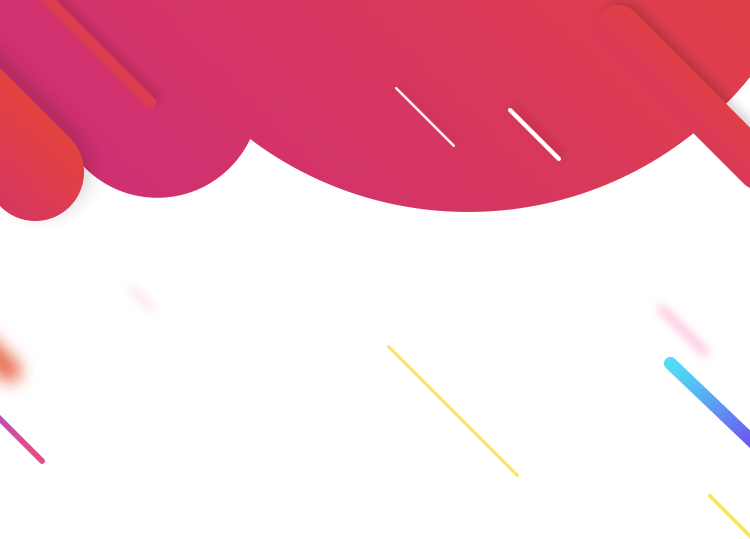
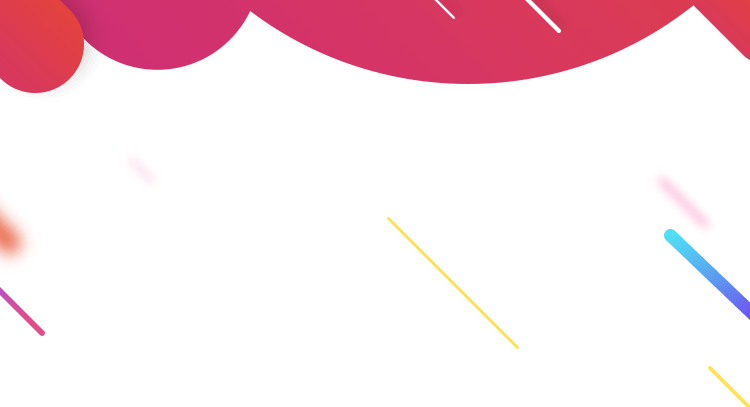
update

diff --git a/activity/newWelfare/sass/_sprite.scss b/activity/newWelfare/sass/_sprite.scss
@@ -4,3 +4,6 @@
 .icon-circle-small {
[1 lines of base64/hex data omitted]
 }
+.tbg {
+	@include background('../images/tbg.png', 750px, 407px);
+}

diff --git a/activity/newWelfare/html/page518.html b/activity/newWelfare/html/page518.html
@@ -16,6 +16,11 @@
 <!-- endbuild -->
 </head>
 <body>
+<div class="content">
+	<div class="tbg">
+		
+	</div>
+</div>
 </body>
 <!-- build:js({dist}) ../js/lib/fastclick-jquery-1.8.3.js -->
 <script src="../js/fastclick-jquery-1.8.3.js" type="text/javascript" charset="utf-8"></script>

diff --git a/activity/newWelfare/sass/index.scss b/activity/newWelfare/sass/index.scss
@@ -4,7 +4,7 @@
 @import "../../../sass/reset";
 @import "../../../sass/func";
 @import "./page518";
-@import "./page2888";
+// @import "./page2888";
 html,
 body {
     position: relative;

diff --git a/activity/newWelfare/js/page518.js b/activity/newWelfare/js/page518.js
@@ -1,0 +1,3 @@
+(function() {
+	
+})();
